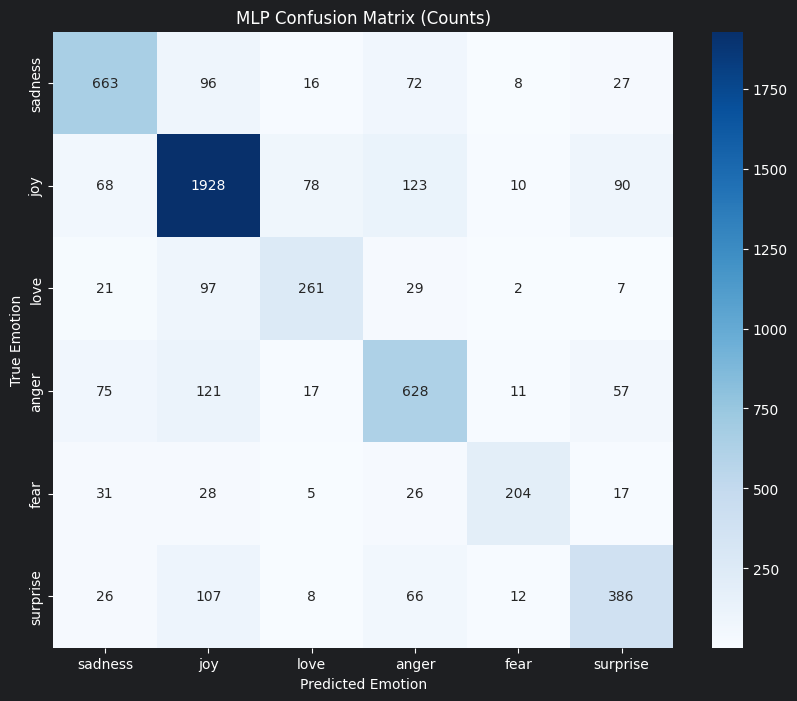
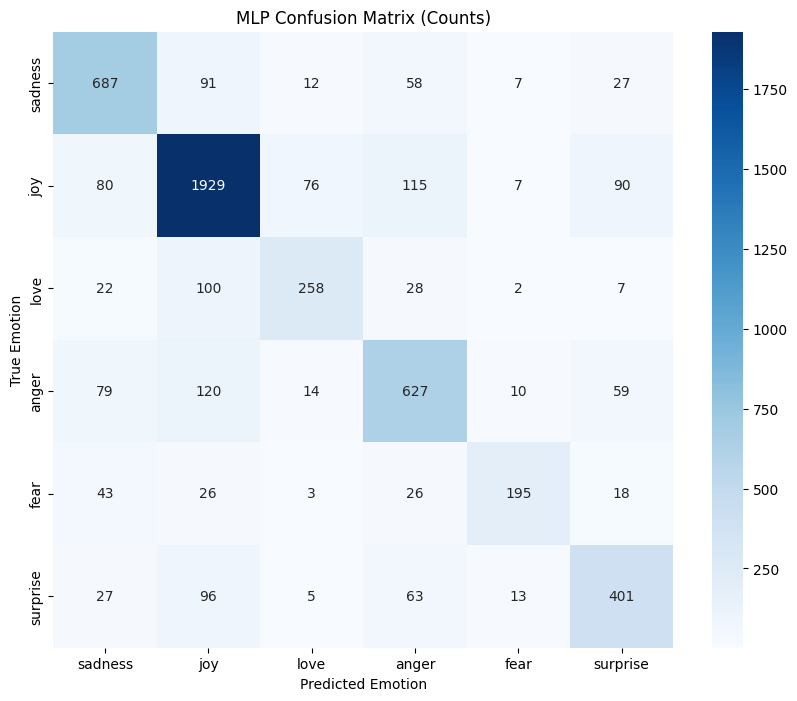
Edit: update info and upload to HF

diff --git a/src/upload_to_hub.py b/src/upload_to_hub.py
@@ -1,19 +1,56 @@
+"""
+Publish trained models to one Hugging Face model repo, one folder per model.
+"""
+
+import argparse
 from pathlib import Path
 
-from huggingface_hub import HfApi
+from huggingface_hub import CommitOperationAdd, HfApi
 
-def upload_model(model_path: str, repo_id: str):
+REPO_NAME = "6emotions"
+MODELS_DIR = Path(__file__).resolve().parents[1] / "models"
+# Inference files only; DistilBERT's training_args.bin is a pickle and is left out
+MODEL_FILES = {
+    "logreg": ["6emotions_model.skops"],
+    "mlp": ["6emotions_model.skops"],
+    "distilbert": ["config.json", "model.safetensors", "tokenizer.json", "tokenizer_config.json"],
+}
+
+
+def _operations(name: str) -> list[CommitOperationAdd]:
+    model_dir = MODELS_DIR / name
+    files = {f"{name}/README.md": model_dir / "README.md"}
+    files.update({f"{name}/{file}": model_dir / "artifacts" / file for file in MODEL_FILES[name]})
+    files.update({f"{name}/results/{path.name}": path
+                  for path in sorted((model_dir / "results").iterdir()) if path.is_file()})
+    missing = [str(path) for path in files.values() if not path.is_file()]
+    if missing:
+        raise FileNotFoundError(f"Missing files for {name}: {', '.join(missing)}")
+    return [CommitOperationAdd(path_in_repo=repo_path, path_or_fileobj=path)
+            for repo_path, path in files.items()]
+
+
+def upload_models(names: list[str], repo_id: str | None = None):
     api = HfApi()
-    api.create_repo(repo_id=repo_id, exist_ok=True)
-    api.upload_file(
-        path_or_fileobj=model_path,
-        path_in_repo=model_path.split("/")[-1],
+    # Default to the logged-in account, so no username is hardcoded
+    repo_id = repo_id or f"{api.whoami()['name']}/{REPO_NAME}"
+    operations = [CommitOperationAdd(path_in_repo="README.md", path_or_fileobj=MODELS_DIR / "README.md")]
+    for name in names:
+        operations += _operations(name)
+
+    api.create_repo(repo_id=repo_id, repo_type="model", private=False, exist_ok=True)
+    api.create_commit(
         repo_id=repo_id,
+        operations=operations,
+        commit_message=f"Upload {', '.join(names)}",
     )
-    print(f"Model uploaded to https://huggingface.co/{repo_id}")
+    print(f"Uploaded {', '.join(names)} to https://huggingface.co/{repo_id}")
+
 
 if __name__ == "__main__":
-    upload_model(
-        model_path=str(Path(__file__).resolve().parents[1] / "models/logreg/artifacts/6emotions_model.skops"),
-        repo_id="<username>/6emotions-classifier"
-    )
+    parser = argparse.ArgumentParser(description=__doc__)
+    parser.add_argument("models", nargs="*", choices=list(MODEL_FILES), default=list(MODEL_FILES),
+                        help="models to upload (default: all)")
+    parser.add_argument("--repo-id", help=f"target repo (default: <logged-in user>/{REPO_NAME})")
+    args = parser.parse_args()
+    upload_models(args.models, args.repo_id)

diff --git a/models/distilbert/README.md b/models/distilbert/README.md
@@ -2,7 +2,7 @@
 
 A fine-tuned `distilbert-base-uncased` sequence classifier for anger, fear, joy, love, sadness, and surprise. DistilBERT is a smaller version of BERT that learned language patterns from large amounts of text. Fine-tuning teaches it to use those patterns to choose an emotion for a sentence.
 
-Run [train.ipynb](train.ipynb) after installing the repository's root `requirements.txt`. Start Jupyter from the repository root or this model folder. The notebook trains once on all 39,718 capped training rows with class-weighted loss and a fixed learning rate of 2e-5, then evaluates on the 5,421-row held-out test set. This can still take a long time on CPU.
+Run [train.ipynb](https://github.com/haydenpham/6Emotions/blob/main/models/distilbert/train.ipynb) after installing the repository's root `requirements.txt`. Start Jupyter from the repository root or this model folder. The notebook trains once on all 39,718 capped training rows with class-weighted loss and a fixed learning rate of 2e-5, then evaluates on the 5,421-row held-out test set. This can still take a long time on CPU.
 
 | Metric | Value |
 | --- | ---: |
@@ -11,16 +11,23 @@ Run [train.ipynb](train.ipynb) after installing the repository's root `requireme
 | Learning rate | 2e-5 |
 | Held-out test accuracy | 0.8273 |
 
-The notebook writes the [training summary](results/training_summary.json) and count and [normalized](results/confusion_matrix_normalized.png) confusion matrices (`results/confusion_matrix.png`) to `results/`. It saves the model and tokenizer to Git-ignored `artifacts/`. Intermediate Trainer files go to `runs/`.
+The notebook writes the [training summary](results/training_summary.json) and confusion matrices to `results/`. It saves the model and tokenizer to Git-ignored `artifacts/`. Intermediate Trainer files go to `runs/`.
 
-To load the local classifier from the repository root:
+![DistilBERT row normalized confusion matrix](results/confusion_matrix_normalized.png)
 
-```python
-from transformers import AutoModelForSequenceClassification, AutoTokenizer
-
-path = "models/distilbert/artifacts"
-tokenizer = AutoTokenizer.from_pretrained(path)
-model = AutoModelForSequenceClassification.from_pretrained(path)
-```
+Rows show true emotions and columns show the share of each true emotion predicted as each label.
 
 This is an English, single-label classifier. Performance on other languages or writing styles has not been evaluated.
+
+## Usage
+
+```python
+from transformers import AutoModelForSequenceClassification, AutoTokenizer, pipeline
+
+tokenizer = AutoTokenizer.from_pretrained("haydenpham/6emotions", subfolder="distilbert")
+model = AutoModelForSequenceClassification.from_pretrained("haydenpham/6emotions", subfolder="distilbert")
+classifier = pipeline("text-classification", model=model, tokenizer=tokenizer)
+print(classifier("I'm so happy today!"))  # [{'label': 'joy', ...}]
+```
+
+To load a locally trained model instead, pass `"models/distilbert/artifacts"` as the path and drop `subfolder`.

diff --git a/models/README.md b/models/README.md
@@ -1,0 +1,56 @@
+---
+license: mit
+language:
+  - en
+pipeline_tag: text-classification
+tags:
+  - text-classification
+  - emotion-detection
+  - sklearn
+  - skops
+  - transformers
+metrics:
+  - accuracy
+---
+
+# 6Emotions classifiers
+
+Three models that classify English text as sadness, joy, love, anger, fear, or surprise. Each model is in its own folder with a README, its results, and its weights. The training code is on [GitHub](https://github.com/haydenpham/6Emotions).
+
+| Model | Configuration | Test accuracy |
+| --- | --- | ---: |
+| [LogReg](logreg/README.md) | Word and character TF-IDF, logistic regression, C=1.0, balanced | 0.7449 |
+| [MLP](mlp/README.md) | Same TF-IDF features, one hidden layer of 512 ReLU units | 0.7558 |
+| [DistilBERT](distilbert/README.md) | Fine-tuned `distilbert-base-uncased`, 3 epochs, lr 2e-5, weighted loss | 0.8273 |
+
+All three models train on the same 39,718 rows and are evaluated on the same 5,421-row held-out test set. The data combines the Emotion Recognition Dataset and GoEmotions, with labels mapped to six emotions. Texts with conflicting labels are dropped, `joy` is capped at 12,000 training rows, and no test text appears in training.
+
+## Usage
+
+DistilBERT loads with `transformers`:
+
+```python
+from transformers import AutoModelForSequenceClassification, AutoTokenizer, pipeline
+
+tokenizer = AutoTokenizer.from_pretrained("haydenpham/6emotions", subfolder="distilbert")
+model = AutoModelForSequenceClassification.from_pretrained("haydenpham/6emotions", subfolder="distilbert")
+classifier = pipeline("text-classification", model=model, tokenizer=tokenizer)
+print(classifier("I'm so happy today!"))  # [{'label': 'joy', ...}]
+```
+
+The TF-IDF models are scikit-learn pipelines saved with `skops`:
+
+```python
+import skops.io as sio
+from huggingface_hub import hf_hub_download
+
+path = hf_hub_download("haydenpham/6emotions", "mlp/6emotions_model.skops")
+model = sio.load(path, trusted=["sklearn.neural_network._stochastic_optimizers.AdamOptimizer"])
+print(model.predict(["I'm so happy today!"]))  # ['joy']
+```
+
+For LogReg, download `logreg/6emotions_model.skops` instead and pass `trusted=[]`.
+
+## Limitations
+
+These are single-label English classifiers. Performance on other languages and on formal or technical writing has not been evaluated. Mapping GoEmotions labels such as `approval` to joy and `curiosity` to surprise adds label noise, which limits accuracy for every model.

diff --git a/models/mlp/README.md b/models/mlp/README.md
@@ -2,13 +2,13 @@
 
 This model classifies English text as sadness, joy, love, anger, fear, or surprise. It uses the same word and character TF-IDF features and shared data loader as LogReg.
 
-Run [train.ipynb](train.ipynb) from the repository root or this folder after installing the root `requirements.txt`. The notebook trains one fixed MLP on the full training set and evaluates it once on the held-out test set. It uses one hidden layer of 64 ReLU units, `alpha=1e-4`, Adam, batch size 256, no class weighting, and early stopping on 10% of the training rows. The training set caps `joy` at 14,000 examples (41,718 rows), not 12,000 as in the other models.
+Run [train.ipynb](https://github.com/haydenpham/6Emotions/blob/main/models/mlp/train.ipynb) from the repository root or this folder after installing the root `requirements.txt`. The notebook trains one fixed MLP on the full training set and evaluates it once on the held-out test set. It uses one hidden layer of 512 ReLU units, `alpha=0.1`, Adam with learning rate 3e-4, batch size 256, no class weighting, and early stopping on 10% of the training rows (patience 5, at most 20 epochs). Training stopped after 10 epochs.
 
 | Metric | Value |
 | --- | ---: |
-| Test accuracy | 0.7508 |
-| Test macro F1 | 0.7142 |
-| Training / test rows | 41,718 / 5,421 |
+| Test accuracy | 0.7558 |
+| Test macro F1 | 0.7179 |
+| Training / test rows | 39,718 / 5,421 |
 
 The MLP pipeline is saved locally to Git-ignored `artifacts/6emotions_model.skops`. The `results/` folder contains the training summary, classification report, and these plots:
 
@@ -21,3 +21,16 @@ The MLP pipeline is saved locally to Git-ignored `artifacts/6emotions_model.skop
 ![MLP row normalized confusion matrix](results/confusion_matrix_normalized.png)
 
 Rows show true emotions and columns show predictions. The count matrix shows the number of examples in each cell; the normalized matrix shows the share within each true emotion.
+
+## Usage
+
+```python
+import skops.io as sio
+from huggingface_hub import hf_hub_download
+
+path = hf_hub_download("haydenpham/6emotions", "mlp/6emotions_model.skops")
+model = sio.load(path, trusted=["sklearn.neural_network._stochastic_optimizers.AdamOptimizer"])
+print(model.predict(["I'm so happy today!"]))  # ['joy']
+```
+
+To load a locally trained model instead, pass `models/mlp/artifacts/6emotions_model.skops` as the path.

diff --git a/models/logreg/README.md b/models/logreg/README.md
@@ -52,7 +52,7 @@ The model uses a combination of:
 - **Regularization:** `C=1.0` (fixed)
 - **Class balancing:** `class_weight='balanced'`
 
-Run [train.ipynb](train.ipynb) after installing the repository's root `requirements.txt`. The notebook uses the shared data preparation and features, trains once on the full training set, and evaluates on the held-out test set. It saves the classifier to `artifacts/` and writes metrics plus count and normalized confusion matrices to `results/`. Start Jupyter from the repository root or this model folder.
+Run [train.ipynb](https://github.com/haydenpham/6Emotions/blob/main/models/logreg/train.ipynb) after installing the repository's root `requirements.txt`. The notebook uses the shared data preparation and features, trains once on the full training set, and evaluates on the held-out test set. It saves the classifier to `artifacts/` and writes metrics plus count and normalized confusion matrices to `results/`. Start Jupyter from the repository root or this model folder.
 
 ## Performance
 
@@ -84,21 +84,11 @@ Rows show true emotions and columns show predictions.
 
 ```python
 import skops.io as sio
+from huggingface_hub import hf_hub_download
 
-# Load model (review untrusted types before loading)
-trusted_types = [
-    "sklearn.pipeline.Pipeline",
-    "sklearn.linear_model._logistic.LogisticRegression",
-    "sklearn.feature_extraction.text.TfidfVectorizer",
-    "sklearn.pipeline.FeatureUnion",
-    "numpy.ndarray",
-    "numpy.dtype"
-]
-
-model = sio.load("models/logreg/artifacts/6emotions_model.skops", trusted=trusted_types)
-
-# Predict
-text = "I'm so happy today!"
-prediction = model.predict([text])
-print(prediction)  # ['joy']
+path = hf_hub_download("haydenpham/6emotions", "logreg/6emotions_model.skops")
+model = sio.load(path, trusted=[])  # every type in this pipeline is trusted by default
+print(model.predict(["I'm so happy today!"]))  # ['joy']
 ```
+
+To load a locally trained model instead, pass `models/logreg/artifacts/6emotions_model.skops` as the path. Run `sio.get_untrusted_types(file=path)` and review the result before loading a model you did not train.

diff --git a/README.md b/README.md
@@ -20,10 +20,10 @@ Each model folder contains `train.ipynb`, a README, and tracked `results/`. Trai
 | Model | Configuration | Test accuracy | Training / test rows |
 | --- | --- | ---: | ---: |
 | [LogReg](models/logreg/README.md) | TF-IDF, C=1.0, balanced | 0.7449 | 39,718 / 5,421 |
-| [MLP](models/mlp/README.md) | TF-IDF, one hidden layer of 64 | 0.7508 | 41,718 / 5,421 |
+| [MLP](models/mlp/README.md) | TF-IDF, one hidden layer of 512, alpha=0.1 | 0.7558 | 39,718 / 5,421 |
 | [DistilBERT](models/distilbert/README.md) | 3 epochs, lr 2e-5, weighted loss | 0.8273 | 39,718 / 5,421 |
 
-All three models are evaluated on the same 5,421-row test set. The MLP trains with a `joy` cap of 14,000 instead of 12,000, so its training set has 2,000 more `joy` texts than the other two.
+All three models train on the same 39,718 rows and are evaluated on the same 5,421-row test set.
 
 ## Data and training
 
@@ -33,4 +33,15 @@ Install `requirements.txt`, then open a model's `train.ipynb` with Jupyter start
 
 ## Space
 
-`spaces/` is a Docker Space. The app loads `6emotions_model.skops` from its own folder, so copy `models/logreg/artifacts/6emotions_model.skops` into `spaces/` before building. [upload_to_hub.py](src/upload_to_hub.py) publishes the same file to a Hugging Face model repo; set `repo_id` first.
+`spaces/` is a Docker Space. The app loads `6emotions_model.skops` from its own folder, so copy `models/logreg/artifacts/6emotions_model.skops` into `spaces/` before building.
+
+## Hugging Face model repo
+
+All three trained models are published to [haydenpham/6emotions](https://huggingface.co/haydenpham/6emotions), one folder per model. [models/README.md](models/README.md) is the repo's model card, and each model's README is its folder's card. After retraining, republish with:
+
+```bash
+python src/upload_to_hub.py              # all three models
+python src/upload_to_hub.py mlp logreg   # only some
+```
+
+This uploads each model's artifacts, README and `results/` in a single commit. `training_args.bin` is not uploaded.
